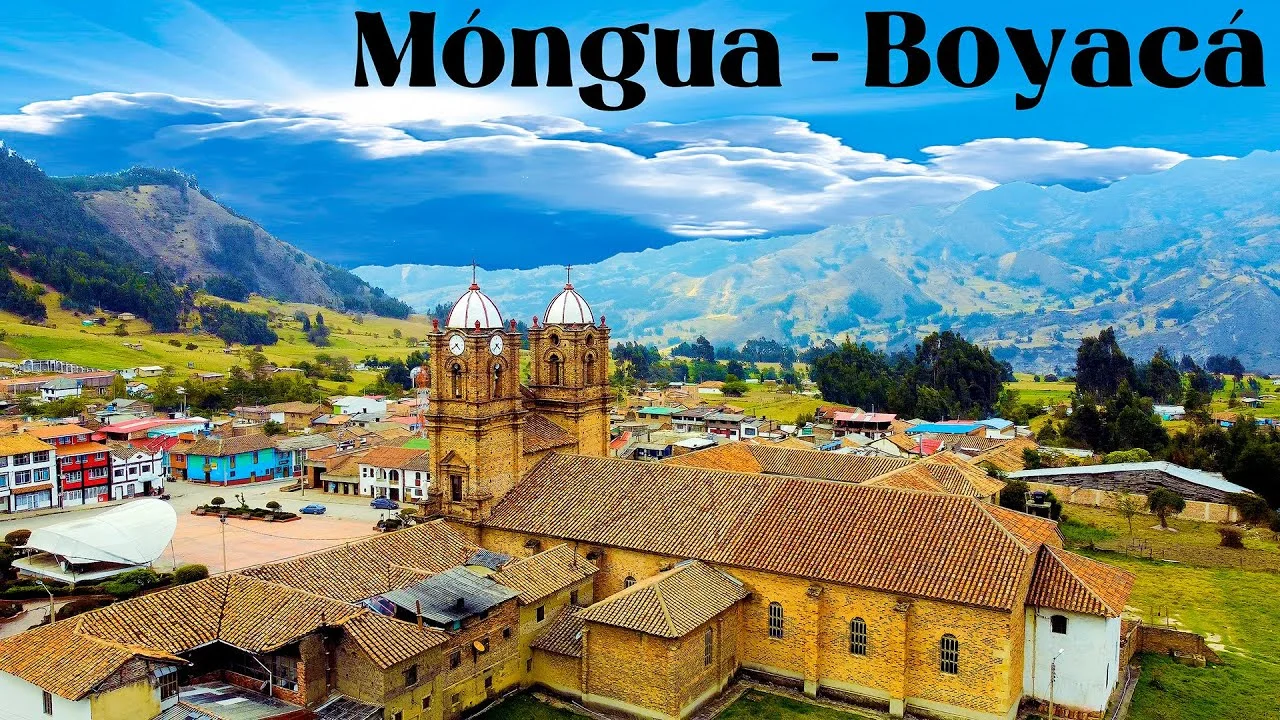
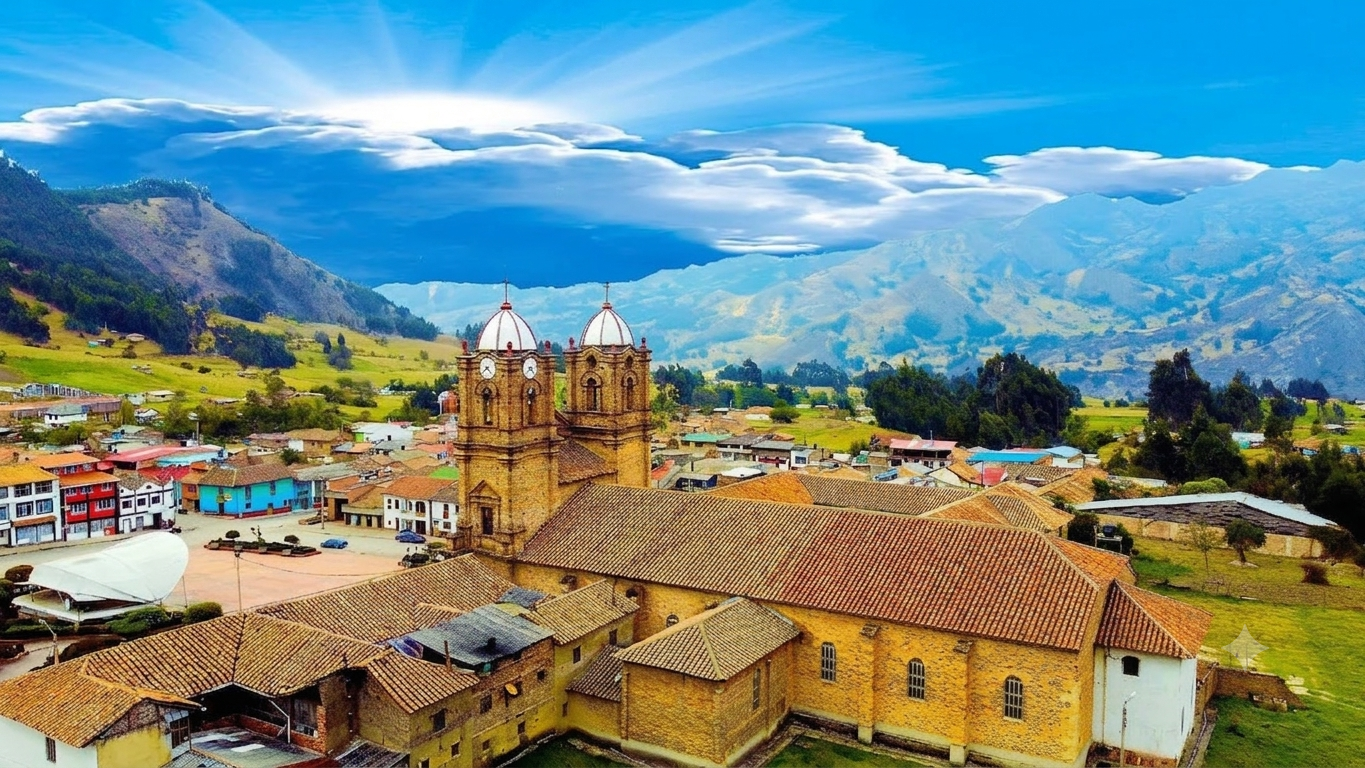
cambio de título a "Tours" y mejora en el formulario de búsqueda de destinos

diff --git a/catalogo/templates/usuario/destinos.html b/catalogo/templates/usuario/destinos.html
@@ -11,7 +11,7 @@
                 <a href="{% url 'inicio' %}" class="text-dark text-decoration-none" style="color:  #000000af !important;">Inicio</a>
             </li>
             <li class="breadcrumb-item active fs-5 fw-bold" aria-current="page" style="color:  #000000af !important;">
-                Nuestros destinos
+                Tours
             </li>
         </ol>
     </nav>
@@ -64,67 +64,79 @@
             <span class="visually-hidden">Siguiente</span>
         </button>
     </div>
-
-    <section class="container" style="margin-top: -4rem; position: relative; z-index: 10;">
-        <div class="bg-white p-4 p-md-5 rounded-4 shadow-lg border border-light">
-            <div class="text-center mb-4">
-                <h2 class="display-6 fw-bold text-dark mb-2">¿Listo para la aventura?</h2>
-                <p class="text-muted">Encuentra el destino perfecto en Mongua.</p>
-            </div>
-            
-            <form method="GET" action="{% url 'destinos' %}" class="mx-auto" style="max-width: 900px;">
-                <div class="row g-3">
-                    <div class="col-md-5">
-                        <div class="input-group input-group-lg shadow-sm">
-                            <span class="input-group-text bg-white border-end-0 text-muted"><i class="bi bi-search"></i></span>
-                            <input type="text" name="q" class="form-control border-start-0 ps-0" placeholder="¿A dónde quieres ir?" value="{{ request.GET.q }}">
-                        </div>
-                    </div>
-                    <div class="col-md-4">
-                        <div class="input-group input-group-lg shadow-sm">
-                            <span class="input-group-text bg-white border-end-0 text-muted"><i class="bi bi-currency-dollar"></i></span>
-                            <input type="number" name="precio_max" class="form-control border-start-0 ps-0" placeholder="Precio máximo" value="{{ request.GET.precio_max }}">
-                        </div>
-                    </div>
-                    <div class="col-md-3">
-                        <button class="btn btn-success btn-lg w-100 shadow-sm fw-bold" type="submit">BUSCAR</button>
-                    </div>
-                </div>
-
-                <div class="row mt-4 justify-content-center">
-                    <div class="col-md-9"> 
-                        <div class="input-group input-group-lg shadow-sm">
-                            <span class="input-group-text bg-white text-muted fs-5"><i class="bi bi-people-fill"></i></span>
-                            <select name="apto_menores" class="form-select fw-semibold text-dark fs-5" onchange="this.form.submit()" style="cursor: pointer;">
-                                <option value="" class="fw-normal text-muted">¿Viajas con menores? (Mostrar todos los planes)</option>
-                                <option value="si" {% if request.GET.apto_menores == 'si' %}selected{% endif %} class="text-success">¡Sí! Solo paquetes aptos para menores</option>
-                                <option value="no" {% if request.GET.apto_menores == 'no' %}selected{% endif %}>Solo adultos / No aptos para menores</option>
-                            </select>
-                        </div>
-                    </div>
-                </div>
-
-                <div class="row mt-3 justify-content-center">
-                    <div class="col-md-9"> 
-                        <div class="input-group input-group-lg shadow-sm">
-                            <span class="input-group-text bg-white text-muted fs-5"><i class="bi bi-stars"></i></span>
-                            <select name="categoria" class="form-select fw-semibold text-dark fs-5" onchange="this.form.submit()" style="cursor: pointer;">
-                                <option value="" class="fw-normal text-muted">Filtrar por categoría (Mostrar todos los planes)</option>
-                                {% for cat in categorias %}
-                                    <option value="{{ cat.id }}" {% if request.GET.categoria == cat.id|stringformat:"s" %}selected{% endif %}>{{ cat.nombre }}</option>
-                                {% endfor %}
-                            </select>
-                        </div>
-                    </div>
-                </div>
-
-                <div class="mt-3 text-center text-md-start">
-                    <a href="{% url 'destinos' %}" class="text-decoration-none small text-muted hover-success"><i class="bi bi-x-circle me-1"></i>Limpiar filtros</a>
-                </div>
-            </form>
+<section class="container" style="margin-top: -4rem; position: relative; z-index: 10;">
+    <div class="bg-white p-4 p-md-5 rounded-4 shadow-lg border border-light">
+        <div class="text-center mb-4">
+            <h2 class="display-6 fw-bold text-dark mb-2">¿Listo para la aventura?</h2>
+            <p class="text-muted">Encuentra el destino perfecto en Mongua.</p>
         </div>
-    </section>
+        
+        <form method="GET" action="{% url 'destinos' %}" class="mx-auto" style="max-width: 900px;">
+            <div class="row g-3">
+                <div class="col-md-5">
+                    <div class="input-group input-group-lg shadow-sm">
+                        <span class="input-group-text bg-white border-end-0 text-muted"><i class="bi bi-search"></i></span>
+                        <input 
+                            type="text" 
+                            name="q" 
+                            class="form-control border-start-0 ps-0" 
+                            placeholder="¿A dónde quieres ir?" 
+                            value="{{ request.GET.q }}"
+                            list="lista-destinos"
+                            autocomplete="off">
+                        
+                   
+                        <datalist id="lista-destinos">
+                            {% for sug in destinos_sugerencias %}
+                                <option value="{{ sug.nombre }}"></option>
+                            {% endfor %}
+                        </datalist>
+                    </div>
+                </div>
+                <div class="col-md-4">
+                    <div class="input-group input-group-lg shadow-sm">
+                        <span class="input-group-text bg-white border-end-0 text-muted"><i class="bi bi-currency-dollar"></i></span>
+                        <input type="number" name="precio_max" class="form-control border-start-0 ps-0" placeholder="Precio máximo" value="{{ request.GET.precio_max }}">
+                    </div>
+                </div>
+                <div class="col-md-3">
+                    <button class="btn btn-success btn-lg w-100 shadow-sm fw-bold" type="submit">BUSCAR</button>
+                </div>
+            </div>
 
+            <div class="row mt-4 justify-content-center">
+                <div class="col-md-9"> 
+                    <div class="input-group input-group-lg shadow-sm">
+                        <span class="input-group-text bg-white text-muted fs-5"><i class="bi bi-people-fill"></i></span>
+                        <select name="apto_menores" class="form-select fw-semibold text-dark fs-5" onchange="this.form.submit()" style="cursor: pointer;">
+                            <option value="" class="fw-normal text-muted">¿Viajas con menores? (Mostrar todos los planes)</option>
+                            <option value="si" {% if request.GET.apto_menores == 'si' %}selected{% endif %} class="text-success">¡Sí! Solo paquetes aptos para menores</option>
+                            <option value="no" {% if request.GET.apto_menores == 'no' %}selected{% endif %}>Solo adultos / No aptos para menores</option>
+                        </select>
+                    </div>
+                </div>
+            </div>
+
+            <div class="row mt-3 justify-content-center">
+                <div class="col-md-9"> 
+                    <div class="input-group input-group-lg shadow-sm">
+                        <span class="input-group-text bg-white text-muted fs-5"><i class="bi bi-stars"></i></span>
+                        <select name="categoria" class="form-select fw-semibold text-dark fs-5" onchange="this.form.submit()" style="cursor: pointer;">
+                            <option value="" class="fw-normal text-muted">Filtrar por categoría (Mostrar todos los planes)</option>
+                            {% for cat in categorias %}
+                                <option value="{{ cat.id }}" {% if request.GET.categoria == cat.id|stringformat:"s" %}selected{% endif %}>{{ cat.nombre }}</option>
+                            {% endfor %}
+                        </select>
+                    </div>
+                </div>
+            </div>
+
+            <div class="mt-3 text-center text-md-start">
+                <a href="{% url 'destinos' %}" class="text-decoration-none small text-muted hover-success"><i class="bi bi-x-circle me-1"></i>Limpiar filtros</a>
+            </div>
+        </form>
+    </div>
+</section>
     <section class="container my-5"> 
         <div class="row g-4"> 
             {% for destino in destinos %}
@@ -138,7 +150,7 @@
                                 <img src="{% static 'img/lagunanegra.webp' %}" class="card-img-top object-fit-cover" alt="Imagen por defecto">
                             {% endif %}
                             <div class="position-absolute top-0 start-0 m-2">
-                                <span class="badge bg-dark bg-opacity-75 text-white small px-2 py-1 rounded-pill"><i class="bi bi-geo-alt-fill me-1"></i>Mongua</span>
+                                <span class="badge bg-dark bg-opacity-75 text-white small px-2 py-1 rounded-pill"><i class="bi bi-geo-alt-fill me-1"></i>Mixto</span>
                             </div>
                             {% if not destino.apto_para_menores %}
                             <div class="position-absolute top-0 end-0 m-2">

diff --git a/catalogo/views.py b/catalogo/views.py
@@ -8,6 +8,7 @@ from django import forms
 from notificaciones.utils import crear_notificacion_sistema
 
  
+
 def destinos(request):
     """
     Vista que filtra y devuelve la lista de paquetes turísticos disponibles
@@ -16,7 +17,12 @@ def destinos(request):
     :param request: El objeto de la solicitud HTTP.
     :return: Una respuesta HTTP con la lista de destinos filtrados.
     """
+
     destinos_list = Paquete.objects.filter(estado=True)
+
+
+    destinos_sugerencias = Paquete.objects.filter(estado=True).values('nombre').distinct()
+
     busqueda = request.GET.get('q', '').strip()
     precio_max = request.GET.get('precio_max')
     apto_menores = request.GET.get('apto_menores')
@@ -27,9 +33,10 @@ def destinos(request):
 
     if precio_max:
         destinos_list = destinos_list.filter(
-            tarifas__precio_adulto__lte=precio_max).distinct()
+            tarifas__precio_adulto__lte=precio_max
+        ).distinct()
 
-    # Filtro estricto bilateral
+   
     if apto_menores == 'si':
         destinos_list = destinos_list.exclude(actividades__apto_para_menores=False).distinct()
     elif apto_menores == 'no':
@@ -41,7 +48,8 @@ def destinos(request):
     categorias_list = Categoria.objects.all()
 
     context = {
-        'destinos': destinos_list,
+        'destinos': destinos_list,                 
+        'destinos_sugerencias': destinos_sugerencias,
         'categorias': categorias_list
     }
     return render(request, 'usuario/destinos.html', context)